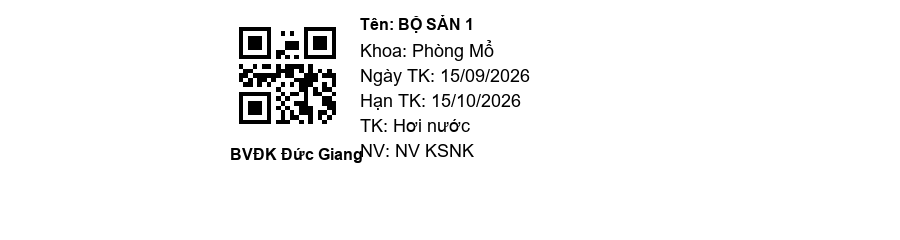
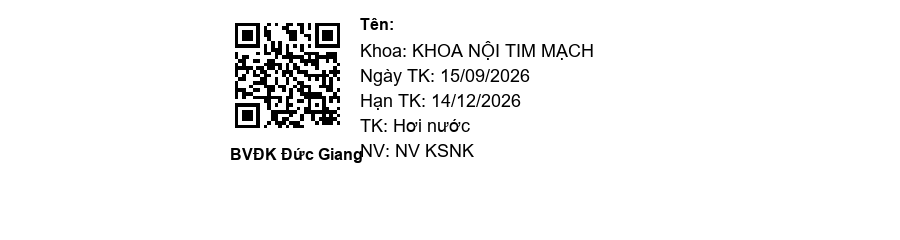
Make expiration date (Hạn) combobox editable and apply its value in printing

diff --git a/scratch_assembly_h_patch.py b/scratch_assembly_h_patch.py
@@ -1,0 +1,21 @@
+import sys
+
+with open(r'C:\Users\Admin\Desktop\bvdkdg\bvdk_ducgiang\views\assembly.py', 'r', encoding='utf-8') as f:
+    c = f.read()
+
+# Make it editable
+c = c.replace('self.cb_h.addItems(["", "7", "30", "90", "180"])', 'self.cb_h.setEditable(True)\n        self.cb_h.addItems(["", "7", "30", "90", "180"])')
+
+# Fix do_print to read self.cb_h
+new_logic = '''    def do_print(self, item_id, is_le, t, k_ten, h_db, pp_db, n):
+        if n <= 0: return
+        today = datetime.today()
+        user_h = self.cb_h.currentText().strip()
+        han_days = user_h if user_h.isdigit() else (h_db if str(h_db).isdigit() else 30)
+        han = today + timedelta(days=int(han_days))'''
+
+import re
+c = re.sub(r'    def do_print.*?han = today \+ timedelta\(days=int\(han_days\)\)', new_logic, c, flags=re.DOTALL)
+
+with open(r'C:\Users\Admin\Desktop\bvdkdg\bvdk_ducgiang\views\assembly.py', 'w', encoding='utf-8') as f:
+    f.write(c)

diff --git a/views/assembly.py b/views/assembly.py
@@ -47,6 +47,7 @@ class AssemblyPage(QWidget):
         fr_opt = QHBoxLayout()
         fr_opt.addWidget(QLabel("Hạn:"))
         self.cb_h = QComboBox()
+        self.cb_h.setEditable(True)
         self.cb_h.addItems(["", "7", "30", "90", "180"])
         fr_opt.addWidget(self.cb_h)
         
@@ -282,7 +283,8 @@ class AssemblyPage(QWidget):
     def do_print(self, item_id, is_le, t, k_ten, h_db, pp_db, n):
         if n <= 0: return
         today = datetime.today()
-        han_days = h_db if str(h_db).isdigit() else 30
+        user_h = self.cb_h.currentText().strip()
+        han_days = user_h if user_h.isdigit() else (h_db if str(h_db).isdigit() else 30)
         han = today + timedelta(days=int(han_days))
         
         pp = self.cb_p.currentText() if self.cb_p.currentText() else pp_db
